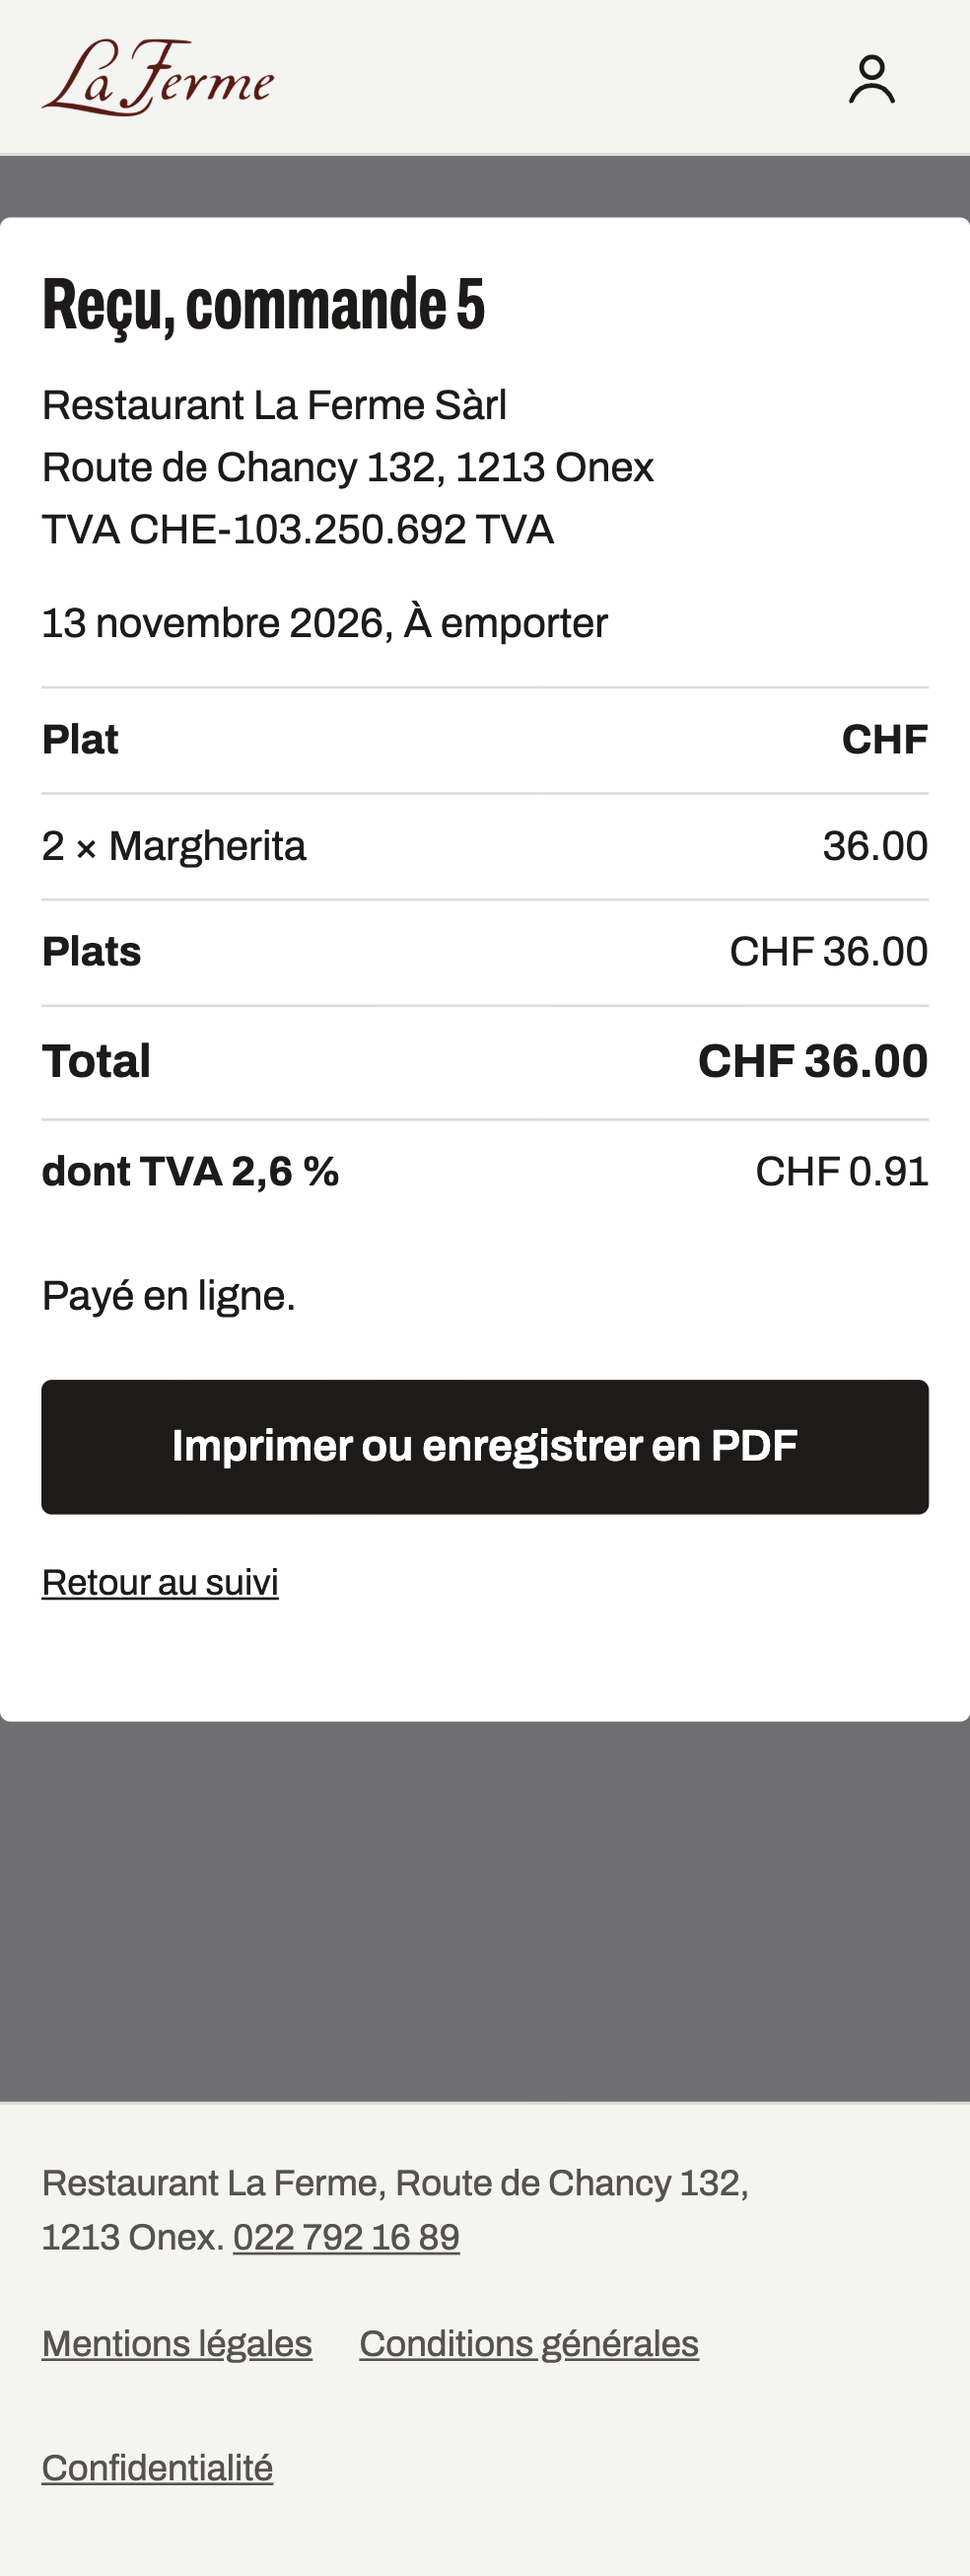
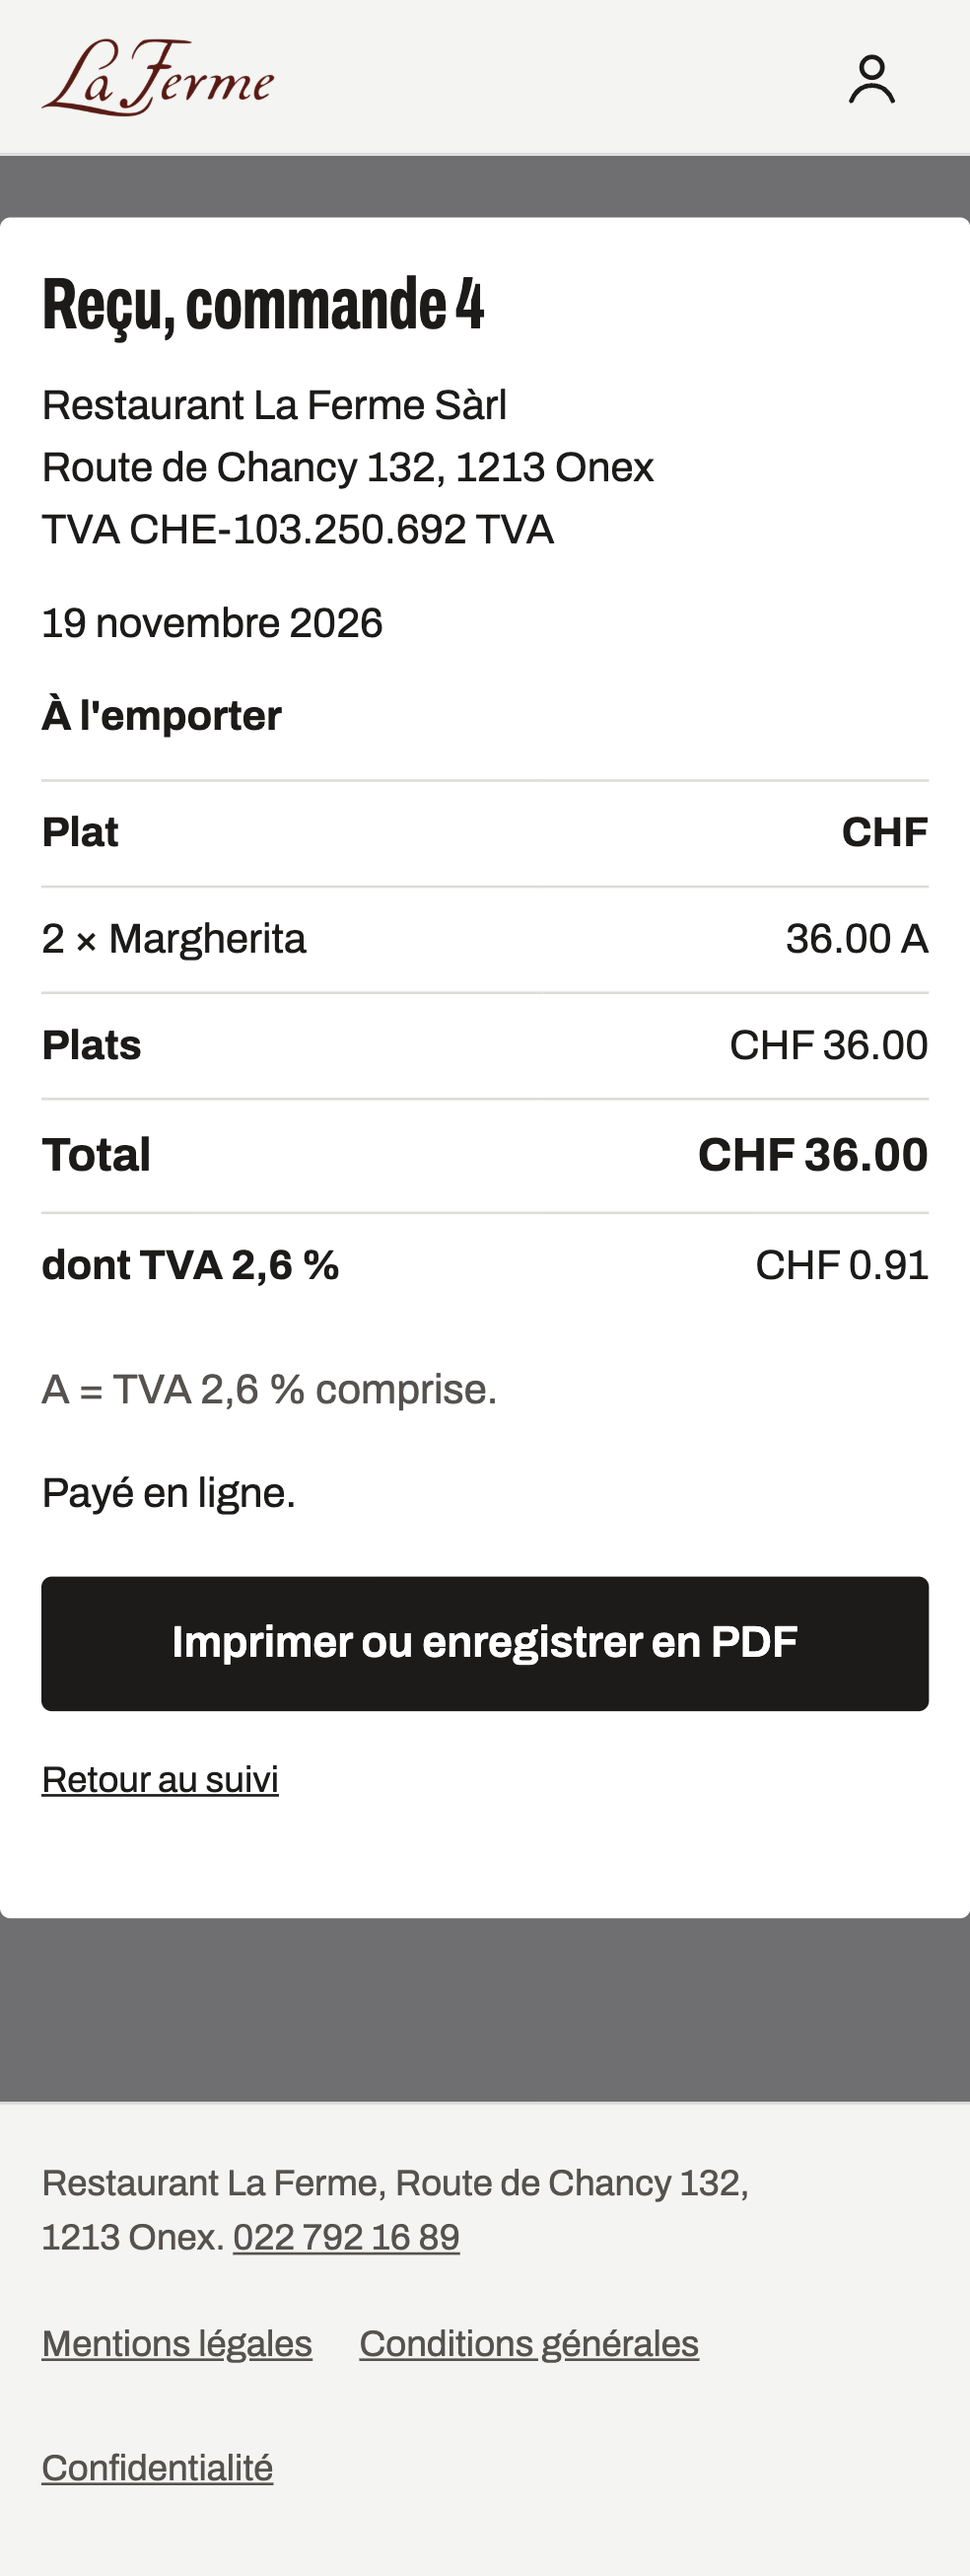
Reçu TVA (R6 et R7) : mention « Livraison sans préparation ni service à » ou « À l'emporter », code de taux par ligne et légende, sur le reçu web (localité seule, adresse complète pour le titulaire du compte) et l'e-mail de commande (adresse complète)

diff --git a/src/lib/recu.ts b/src/lib/recu.ts
@@ -5,8 +5,9 @@ import type { Catalogue } from "@/lib/panier";
 import { prixChf } from "@/lib/prix";
 import type { RemboursementSuivi } from "@/lib/suivi";
 
-// Reçu avec TVA d'une commande payée, depuis le suivi et le compte. Pas de nom de famille, de téléphone ni
-// d'adresse de livraison : le lien de suivi se transfère, le reçu aussi.
+// Reçu avec TVA d'une commande payée, depuis le suivi et le compte. Mention de livraison avec le nom et la localité
+// seule : le lien de suivi se transfère, le reçu aussi. L'adresse complète n'est montrée qu'au titulaire du compte
+// connecté (décision du chef du 19.11.2026). Jamais de téléphone.
 
 // Vendeur (raison sociale, adresse, numéro de TVA) : un seul endroit, partagé avec le justificatif papier.
 export { VENDEUR } from "@/lib/vendeur";
@@ -17,6 +18,25 @@ export function recuDisponible(c: Pick<Commande, "statut" | "statut_paiement">):
   return c.statut_paiement === "paye" || c.statut_paiement === "encaisse" || c.statut_paiement === "rembourse";
 }
 
+// Mention du justificatif qui fonde la TVA à 2,6 % (AFC, Info TVA 08 ch. 1.3.2, 1.3.3 et 12 ; plan de conformité
+// compta R6), mêmes mots que le ticket du sac (src/lib/impression/ticket.ts). complet : rue et numéro en plus de la
+// localité (e-mail de commande, compte du client).
+type PourMention = Pick<Commande, "mode" | "client_prenom" | "client_nom" | "adresse"> & { destinataire?: { nom?: string } | null };
+export function mentionLivraison(c: PourMention, complet: boolean): string[] {
+  if (c.mode !== "livraison") return ["À l'emporter"];
+  const nom = c.destinataire?.nom?.trim() || `${c.client_prenom} ${c.client_nom}`.trim();
+  const a = c.adresse;
+  const lieu = !a ? [] : complet ? [`${a.rue}${a.numero ? ` ${a.numero}` : ""}`, `${a.npa} ${a.localite}`] : [a.localite];
+  return ["Livraison sans préparation ni service à", nom, ...lieu];
+}
+
+// Taux par ligne (R7) : un code avec sa légende, comme le ticket. Un seul taux tant que la carte n'en porte pas par
+// plat (colonne de bo-carte à venir).
+export const CODE_TVA = "A";
+export function legendeTva(c: Pick<Commande, "taux_tva_pourcent">): string {
+  return `${CODE_TVA} = TVA ${String(c.taux_tva_pourcent).replace(".", ",")} % comprise`;
+}
+
 function date(iso: string): string {
   return new Intl.DateTimeFormat("fr-CH", { timeZone: "Europe/Zurich", day: "numeric", month: "long", year: "numeric" }).format(new Date(iso));
 }
@@ -24,26 +44,33 @@ function date(iso: string): string {
 export type Recu = {
   numero: number;
   date: string;
-  mode: string;
+  mention: string[];
+  legende: string;
   lignes: { titre: string; details: string[]; montant: string }[];
   sommes: [string, string][];
   paiement: string;
   remboursements: string[];
 };
 
-export function donneesRecu(c: Commande & { paye_le?: string | null }, cat: Catalogue | null, remboursements: RemboursementSuivi[]): Recu {
+export function donneesRecu(
+  c: Commande & { paye_le?: string | null; destinataire?: { nom?: string } | null },
+  cat: Catalogue | null,
+  remboursements: RemboursementSuivi[],
+  { complet = false }: { complet?: boolean } = {},
+): Recu {
   return {
     numero: c.numero,
     date: date(c.paye_le ?? c.cree_le),
-    mode: c.mode === "livraison" ? "Livraison" : "À emporter",
+    mention: mentionLivraison(c, complet),
+    legende: legendeTva(c),
     lignes: c.lignes.map((l) => ({
       titre: `${l.qte} × ${nomClient(l.nom, l.station === "pizza")}`,
       details: detailsLigne(cat, l),
-      montant: (l.total_centimes / 100).toFixed(2),
+      montant: `${(l.total_centimes / 100).toFixed(2)} ${CODE_TVA}`,
     })),
     sommes: [
       ["Plats", prixChf(c.sous_total_centimes)],
-      ...(c.mode === "livraison" ? ([["Livraison", prixChf(c.frais_centimes)]] as [string, string][]) : []),
+      ...(c.mode === "livraison" ? ([["Livraison", `${prixChf(c.frais_centimes)} ${CODE_TVA}`]] as [string, string][]) : []),
       // Cagnotte : réduction de prix, la TVA est calculée sur le total net (vague 3).
       ...(c.cagnotte_centimes ? ([["Cagnotte utilisée", `− ${prixChf(c.cagnotte_centimes)}`]] as [string, string][]) : []),
       ["Total", prixChf(c.total_centimes)],

diff --git a/src/lib/courriel/modeles.ts b/src/lib/courriel/modeles.ts
@@ -11,7 +11,7 @@ import type { TypeCourriel } from "@/lib/courriel/quota";
 import { fourchette } from "@/lib/heure-reelle";
 import { plageTexte } from "@/lib/plage-heure";
 import { instantGeneve, type ConfigService } from "@/lib/service";
-import { recuDisponible } from "@/lib/recu";
+import { CODE_TVA, legendeTva, mentionLivraison, recuDisponible } from "@/lib/recu";
 
 // Même heure partout que l'accueil (client-commande) : fourchette selon les réglages de largeur de
 // bo-operations ; sans configuration ou à largeur 0, une seule heure (« vers 19h40 »).
@@ -122,10 +122,14 @@ export function courrielConfirmation(c: Commande, cat: Catalogue | null, estimat
       : c.mode === "livraison"
         ? `À payer à la livraison, en espèces ou par carte, ${prixChf(c.total_centimes)}.`
         : `À payer au comptoir en venant la chercher, ${prixChf(c.total_centimes)}.`;
-  const lignes = c.lignes.map((l) => ({ titre: `${l.qte} × ${nomClient(l.nom, l.station === "pizza")}`, prix: prixCourt(l.total_centimes), details: detailsLigne(cat, l) }));
+  const lignes = c.lignes.map((l) => ({ titre: `${l.qte} × ${nomClient(l.nom, l.station === "pizza")}`, prix: `${prixCourt(l.total_centimes)} ${CODE_TVA}`, details: detailsLigne(cat, l) }));
+  // Justificatif de la TVA à 2,6 % (plan de conformité R6 et R7) : la mention avec le nom et l'adresse complète (l'e-mail
+  // arrive dans la boîte du client), le code de taux de chaque ligne et sa légende.
+  const m = mentionLivraison(c as Commande & { destinataire?: { nom?: string } | null }, true);
+  const mention = m.length > 1 ? `${m[0]} ${m.slice(1).join(", ")}.` : `${m[0]}.`;
   const sommes = [
     ["Sous-total", prixChf(c.sous_total_centimes)],
-    ...(c.mode === "livraison" ? [["Livraison", prixChf(c.frais_centimes)]] : []),
+    ...(c.mode === "livraison" ? [["Livraison", `${prixChf(c.frais_centimes)} ${CODE_TVA}`]] : []),
     ...(c.cagnotte_centimes ? [["Cagnotte utilisée", `− ${prixChf(c.cagnotte_centimes)}`]] : []),
     ["Total", prixChf(c.total_centimes)],
     [`dont TVA ${String(c.taux_tva_pourcent).replace(".", ",")} %`, prixChf(c.tva_centimes)],
@@ -140,9 +144,11 @@ export function courrielConfirmation(c: Commande, cat: Catalogue | null, estimat
     HEURE_AU_SUIVI,
     ...(c.allergie ? [ALLERGIE_SIGNALEE] : []),
     "",
+    mention,
     ...lignes.flatMap((l) => [`${l.titre}  ${l.prix}`, ...l.details.map((d) => `   ${d}`)]),
     "",
     ...sommes.map(([a, b]) => `${a}  ${b}`),
+    `${legendeTva(c)}.`,
     paiement,
     "",
     `Suivre la commande : ${lienSuivi(c)}`,
@@ -154,6 +160,7 @@ export function courrielConfirmation(c: Commande, cat: Catalogue | null, estimat
   const html = enveloppe(`
 <p>Bonjour ${echapper(c.client_prenom)},</p>
 <p>Nous avons bien reçu votre commande n° <strong>${c.numero}</strong>.<br>${echapper(modeTexte(c, estimation, config))}<br>${HEURE_AU_SUIVI}</p>${c.allergie ? `\n<p><strong>${ALLERGIE_SIGNALEE}</strong></p>` : ""}
+<p><strong>${echapper(mention)}</strong></p>
 <table style="width:100%;border-collapse:collapse">${lignes
     .map(
       (l) => `<tr><td style="padding:6px 0;border-top:1px solid #ddd"><strong>${echapper(l.titre)}</strong>${l.details
@@ -166,6 +173,7 @@ export function courrielConfirmation(c: Commande, cat: Catalogue | null, estimat
       return `<tr><td style="padding:4px 0${fort}">${echapper(a)}</td><td style="padding:4px 0;text-align:right${fort}">${b}</td></tr>`;
     })
     .join("")}</table>
+<p style="color:#55524f">${echapper(legendeTva(c))}.</p>
 <p>${echapper(paiement)}</p>
 ${bouton(lienSuivi(c), "Suivre la commande")}${recu ? `\n<p><a href="${echapper(`${lienSuivi(c)}/recu`)}" style="color:#1c1b1a">Reçu avec TVA</a></p>` : ""}
 <p>Une question ? ${TELEPHONE}</p>`, c.origine, `Nous avons bien reçu votre commande n° ${c.numero}.`);

diff --git a/src/app/suivi/[jeton]/recu/page.tsx b/src/app/suivi/[jeton]/recu/page.tsx
@@ -5,6 +5,7 @@ import { EnTete } from "@/components/EnTete";
 import { PiedDePage } from "@/components/PiedDePage";
 import { Imprimer } from "@/components/suivi/Imprimer";
 import { chargerCatalogue } from "@/lib/catalogue";
+import { compteCourant } from "@/lib/comptes/session";
 import { commandeParJeton } from "@/lib/db/serveur";
 import { donneesRecu, recuDisponible, VENDEUR } from "@/lib/recu";
 import { PRIVE } from "@/lib/site";
@@ -13,14 +14,17 @@ import { remboursementsSuivi } from "@/lib/suivi";
 export const dynamic = "force-dynamic";
 export const metadata: Metadata = { title: "Reçu, La Ferme", robots: PRIVE };
 
-// Reçu avec TVA d'une commande payée, par le même jeton que le suivi. Rien de plus que le suivi sur le client.
+// Reçu avec TVA d'une commande payée, par le même jeton que le suivi. Le nom et la localité de livraison ; l'adresse
+// complète seulement pour le titulaire du compte connecté (le lien se transfère).
 export default async function Recu({ params }: { params: Promise<{ jeton: string }> }) {
   const { jeton } = await params;
   if (!/^[A-Za-z0-9_-]{20,64}$/.test(jeton)) notFound();
   const c = await commandeParJeton(jeton);
   if (!c) notFound();
   const disponible = recuDisponible(c);
-  const r = disponible ? donneesRecu(c, await chargerCatalogue().catch(() => null), await remboursementsSuivi(c.id)) : null;
+  const compte = disponible && c.compte_id ? await compteCourant().catch(() => null) : null;
+  const complet = !!compte && compte.id === c.compte_id;
+  const r = disponible ? donneesRecu(c, await chargerCatalogue().catch(() => null), await remboursementsSuivi(c.id), { complet }) : null;
 
   return (
     <>
@@ -45,8 +49,14 @@ export default async function Recu({ params }: { params: Promise<{ jeton: string
                 <br />
                 TVA {VENDEUR.tva}
               </p>
-              <p className="recu-meta">
-                {r.date}, {r.mode}
+              <p className="recu-meta">{r.date}</p>
+              <p className="recu-mention">
+                {r.mention.map((m, i) => (
+                  <span key={i}>
+                    {i > 0 && <br />}
+                    {m}
+                  </span>
+                ))}
               </p>
               <table className="recu-table">
                 <caption className="sr-only">Plats de la commande {r.numero}</caption>
@@ -80,6 +90,7 @@ export default async function Recu({ params }: { params: Promise<{ jeton: string
                   ))}
                 </tfoot>
               </table>
+              <p className="recu-legende">{r.legende}.</p>
               <p>{r.paiement}.</p>
               {r.remboursements.map((t) => (
                 <p key={t}>{t}</p>

diff --git a/tests/unit/recu.test.ts b/tests/unit/recu.test.ts
@@ -67,10 +67,12 @@ describe("reçu avec TVA", () => {
     });
     expect(r.numero).toBe(42);
     expect(r.date).toBe("13 novembre 2026");
-    expect(r.lignes).toEqual([{ titre: "2 × Margherita", details: [], montant: "40.00" }]);
+    // Taux par ligne (R7) : le code « A » et sa légende, comme le ticket du sac.
+    expect(r.lignes).toEqual([{ titre: "2 × Margherita", details: [], montant: "40.00 A" }]);
+    expect(r.legende).toBe("A = TVA 2,6 % comprise");
     expect(r.sommes).toEqual([
       ["Plats", "CHF 40.00"],
-      ["Livraison", "CHF 5.00"],
+      ["Livraison", "CHF 5.00 A"],
       ["Total", "CHF 45.00"],
       ["dont TVA 2,6 %", "CHF 1.14"],
     ]);
@@ -78,9 +80,20 @@ describe("reçu avec TVA", () => {
     expect(r.remboursements).toEqual([]);
   });
 
-  it("ni nom de famille, ni téléphone, ni adresse de livraison, ni code d'entrée", () => {
-    const texte = JSON.stringify(donneesRecu(commande(), null, []));
-    for (const x of ["Essai", "079 000 00 00", "Route de Chancy\",\"numero", "1234", "lea@exemple.test"]) expect(texte).not.toContain(x);
+  it("par le lien : la mention avec le nom et la localité seule ; ni rue, ni téléphone, ni code d'entrée, ni e-mail", () => {
+    const r = donneesRecu(commande(), null, []);
+    // Mention qui fonde la TVA à 2,6 % (R6, décision du chef du 19.11.2026 : le lien de suivi se transfère).
+    expect(r.mention).toEqual(["Livraison sans préparation ni service à", "Léa Essai", "Onex"]);
+    const texte = JSON.stringify(r);
+    for (const x of ["Route de Chancy", "1213", "079 000 00 00", "1234", "lea@exemple.test"]) expect(texte).not.toContain(x);
+  });
+
+  it("titulaire du compte connecté : l'adresse complète ; à la personne qui reçoit un cadeau, son nom ; à emporter", () => {
+    expect(donneesRecu(commande(), null, [], { complet: true }).mention).toEqual(["Livraison sans préparation ni service à", "Léa Essai", "Route de Chancy 1", "1213 Onex"]);
+    const cadeau = { ...commande(), destinataire: { nom: "Noé Martin", telephone: "079 111 11 11" } };
+    expect(donneesRecu(cadeau, null, []).mention).toEqual(["Livraison sans préparation ni service à", "Noé Martin", "Onex"]);
+    expect(JSON.stringify(donneesRecu(cadeau, null, []))).not.toContain("079 111 11 11");
+    expect(donneesRecu(commande({ mode: "retrait", frais_centimes: 0 }), null, []).mention).toEqual(["À l'emporter"]);
   });
 
   it("à emporter : pas de ligne de livraison ; un remboursement fait est rappelé", () => {

diff --git a/tests/unit/un-courriel-commande.test.ts b/tests/unit/un-courriel-commande.test.ts
@@ -38,6 +38,24 @@ describe("e-mail de confirmation, seul e-mail de la commande", () => {
     expect(m.html).toContain('href="https://commande.exemple.test/suivi/abcdefghijklmnopqrstuvwxyz/recu"');
   });
 
+  it("justificatif de la TVA à 2,6 % : la mention avec le nom et l'adresse complète, le code de taux par ligne et sa légende", () => {
+    const livraison = {
+      ...base,
+      mode: "livraison",
+      client_nom: "Essai",
+      adresse: { rue: "Route de Chancy", numero: "1", npa: "1213", localite: "Onex" },
+      frais_centimes: 500,
+      lignes: [{ position: 1, slug: "pizza-margherita", nom: "Pizza Margherita", station: "pizza", qte: 1, unitaire_centimes: 1800, total_centimes: 1800, choix: {}, retraits: [], note: "" }],
+    } as unknown as Commande;
+    const m = courrielConfirmation(livraison, null);
+    expect(m.texte).toContain("Livraison sans préparation ni service à Léa Essai, Route de Chancy 1, 1213 Onex.");
+    expect(m.texte).toContain("1 × Margherita  18.– A");
+    expect(m.texte).toContain("Livraison  CHF 5.00 A");
+    expect(m.texte).toContain("A = TVA 2,6 % comprise.");
+    expect(m.html).toContain("Livraison sans préparation ni service à Léa Essai, Route de Chancy 1, 1213 Onex.");
+    expect(courrielConfirmation(base, null).texte).toContain("\nÀ l'emporter.\n");
+  });
+
   it("à payer au comptoir : pas encore de reçu", () => {
     const m = courrielConfirmation({ ...base, moyen_paiement: "comptoir", statut_paiement: "a_encaisser_retrait" } as Commande, null);
     expect(m.texte).not.toContain("Reçu avec TVA");

diff --git a/tests/e2e/suivi.spec.ts b/tests/e2e/suivi.spec.ts
@@ -107,6 +107,9 @@ test("reçu avec TVA : vendeur, numéro de TVA, plats et TVA, sans données du c
   await expect(recu.locator(".recu-total")).toContainText("Total");
   await expect(recu).toContainText(/dont TVA \d+,?\d* %/);
   await expect(recu).toContainText("Payé en ligne.");
+  // Mention qui fonde la TVA à 2,6 % et code de taux par ligne (plan de conformité R6 et R7).
+  await expect(recu.locator(".recu-mention")).toHaveText("À l'emporter");
+  await expect(recu).toContainText("A = TVA 2,6 % comprise.");
   // Ni nom de famille, ni téléphone, ni e-mail.
   await expect(recu).not.toContainText("079 000 00 00");
   await expect(recu).not.toContainText(`${prenom.toLowerCase()}@laferme.test`);

diff --git a/src/app/globals.css b/src/app/globals.css
@@ -3642,8 +3642,16 @@ body.fiche-ouverte {
   font-size: 28px;
 }
 .recu-vendeur,
-.recu-meta {
+.recu-meta,
+.recu-mention {
   margin: 12px 0;
+}
+/* Mention du justificatif (TVA à 2,6 %), première ligne en gras comme sur le ticket du sac. */
+.recu-mention > span:first-child {
+  font-weight: 700;
+}
+.recu-legende {
+  color: var(--encre-douce);
 }
 .recu-table {
   width: 100%;

diff --git a/docs/vague-3/client-compte.md b/docs/vague-3/client-compte.md
@@ -19,7 +19,15 @@ Rien d'autre n'est recopié dans son compte : ni téléphone, ni adresse, ni cod
 
 ## Reçu avec TVA
 
-Le lien « Reçu avec TVA » est en bas de la page de suivi d'une commande payée. Il est aussi dans le compte du client (« Reçu »). Le reçu donne le restaurant, le numéro de TVA, la date, les plats, les frais, le total, le taux et le montant de la TVA. Le client l'imprime ou l'enregistre en PDF depuis son navigateur. Il ne porte ni le nom de famille ni l'adresse du client.
+Le lien « Reçu avec TVA » est en bas de la page de suivi d'une commande payée. Il est aussi dans le compte du client (« Reçu »). Le reçu donne le restaurant, le numéro de TVA, la date, les plats, les frais, le total, le taux et le montant de la TVA. Le client l'imprime ou l'enregistre en PDF depuis son navigateur.
+
+Mention qui fonde la TVA à 2,6 % (plan de conformité compta R6 et R7, décision du chef du 19.11.2026), avec les mêmes mots que le ticket du sac :
+
+- à emporter, « À l'emporter » ;
+- en livraison, « Livraison sans préparation ni service à » suivi du nom (celui de la personne qui reçoit pour un cadeau) puis de la localité. Le lien de suivi se transfère : le reçu ouvert par ce lien ne donne ni la rue ni le numéro. Le titulaire du compte connecté voit l'adresse complète ;
+- chaque ligne porte le code de taux « A », expliqué sous le total (« A = TVA 2,6 % comprise »).
+
+L'e-mail de commande porte la même mention avec le nom et l'adresse complète, puisqu'il arrive dans la boîte du client. Il porte aussi le code de taux et sa légende. Jamais de téléphone ni de code d'entrée.
 
 ## Annuler sa commande depuis le suivi
 
